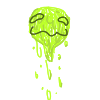
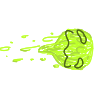
Make poison use poison sprite

diff --git a/WarlockGame.Core/Game/Sim/Spell/SpellFactory.cs b/WarlockGame.Core/Game/Sim/Spell/SpellFactory.cs
@@ -94,13 +94,13 @@ class SpellFactory {
             CooldownTime = 60,
             SpellIcon = Art.PoisonIcon,
             Effect = new ProjectileComponent(
-                sprite: Sprite.FromGridSpriteSheet(Art.Fireball, 2, 2, 10, scale: .15f),
-                new[] {
+                sprite: new Sprite(Art.PoisonBall) { Scale = 0.80f },
+                [
                     new LocationAreaOfEffect {
                         Shape = new CircleTarget { Radius = 20 },
                         Components = [new ApplyBuff(10, caster => new DamageOverTime(caster, 120, 5f / 60))]
                     }
-                }
+                ]
             )
         };
     }
